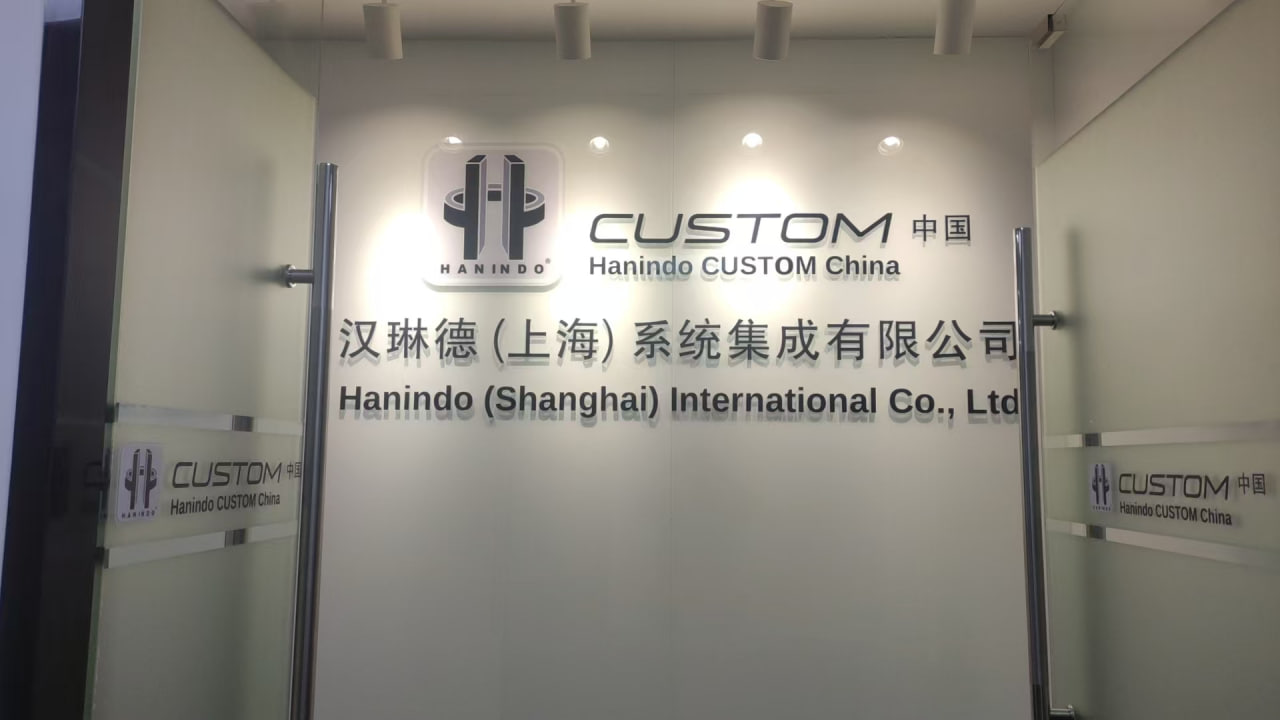
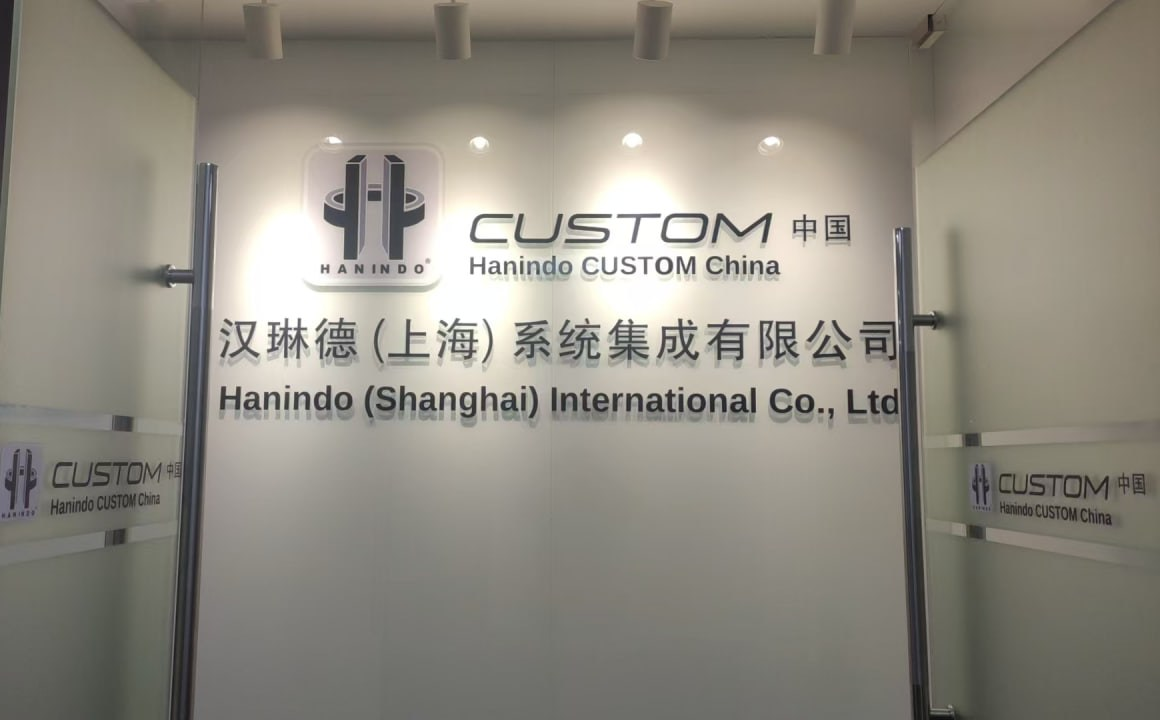
Crop the dark panel edge off the Shanghai signage photo
The shot of the Hanindo CUSTOM China entrance carried a black glossy
band down its left side -- the edge of the adjacent glass panel,
caught outside the frame of the signage itself. 120px off the left
removes it and leaves the composition better centred, with both
CUSTOM decals intact and roughly symmetric about the doors.

Applied to both copies. ovs-shanghai-2.jpg and ovs-office-shanghai.jpg
were byte-identical, so the same photo was carrying the same flaw on
the home, about and contact pages.

Each of the three references gains ?v=2. The filenames do not change,
so without it browsers and the Pages CDN would go on serving the
uncropped version from cache.

diff --git a/shanghai/index.html b/shanghai/index.html
@@ -114,7 +114,7 @@
           <div class="ph" style="display:none"><svg viewBox="0 0 24 24"><rect x="3" y="3" width="18" height="18" rx="2"/><circle cx="8.5" cy="8.5" r="1.5"/><path d="M21 15l-5-5L5 21"/></svg><span>Photo needed</span></div>
         </div>
         <div class="shot">
-          <img src="../photos/group/shanghai/ovs-shanghai-2.jpg" alt="Hanindo (Shanghai) International Co., Ltd, Shanghai" onerror="this.style.display='none';var s=this.nextElementSibling;if(s)s.style.display='flex'" />
+          <img src="../photos/group/shanghai/ovs-shanghai-2.jpg?v=2" alt="Hanindo (Shanghai) International Co., Ltd, Shanghai" onerror="this.style.display='none';var s=this.nextElementSibling;if(s)s.style.display='flex'" />
           <div class="ph" style="display:none"><svg viewBox="0 0 24 24"><rect x="3" y="3" width="18" height="18" rx="2"/><circle cx="8.5" cy="8.5" r="1.5"/><path d="M21 15l-5-5L5 21"/></svg><span>Photo needed</span></div>
         </div>
       </div>

diff --git a/shanghai/about.html b/shanghai/about.html
@@ -110,7 +110,7 @@
     <div class="offgrid">
       <div class="off reveal">
         <div class="shot">
-          <img src="../photos/group/shanghai/ovs-office-shanghai.jpg" alt="Hanindo (Shanghai) International Co., Ltd, Shanghai office" loading="lazy" onerror="this.style.display='none';var s=this.nextElementSibling;if(s)s.style.display='flex'" />
+          <img src="../photos/group/shanghai/ovs-office-shanghai.jpg?v=2" alt="Hanindo (Shanghai) International Co., Ltd, Shanghai office" loading="lazy" onerror="this.style.display='none';var s=this.nextElementSibling;if(s)s.style.display='flex'" />
           <div class="ph" style="display:none"><svg viewBox="0 0 24 24"><rect x="3" y="3" width="18" height="18" rx="2"/><circle cx="8.5" cy="8.5" r="1.5"/><path d="M21 15l-5-5L5 21"/></svg><span>Photo needed</span></div>
         </div>
         <div class="offbody">

diff --git a/shanghai/contact.html b/shanghai/contact.html
@@ -101,7 +101,7 @@
         </div>
       </div>
       <div class="shot reveal d2">
-        <img src="../photos/group/shanghai/ovs-office-shanghai.jpg" alt="Hanindo (Shanghai) International Co., Ltd, Shanghai office" onerror="this.style.display='none';var s=this.nextElementSibling;if(s)s.style.display='flex'" />
+        <img src="../photos/group/shanghai/ovs-office-shanghai.jpg?v=2" alt="Hanindo (Shanghai) International Co., Ltd, Shanghai office" onerror="this.style.display='none';var s=this.nextElementSibling;if(s)s.style.display='flex'" />
         <div class="ph" style="display:none"><svg viewBox="0 0 24 24"><rect x="3" y="3" width="18" height="18" rx="2"/><circle cx="8.5" cy="8.5" r="1.5"/><path d="M21 15l-5-5L5 21"/></svg><span>Photo needed</span></div>
       </div>
     </div>
